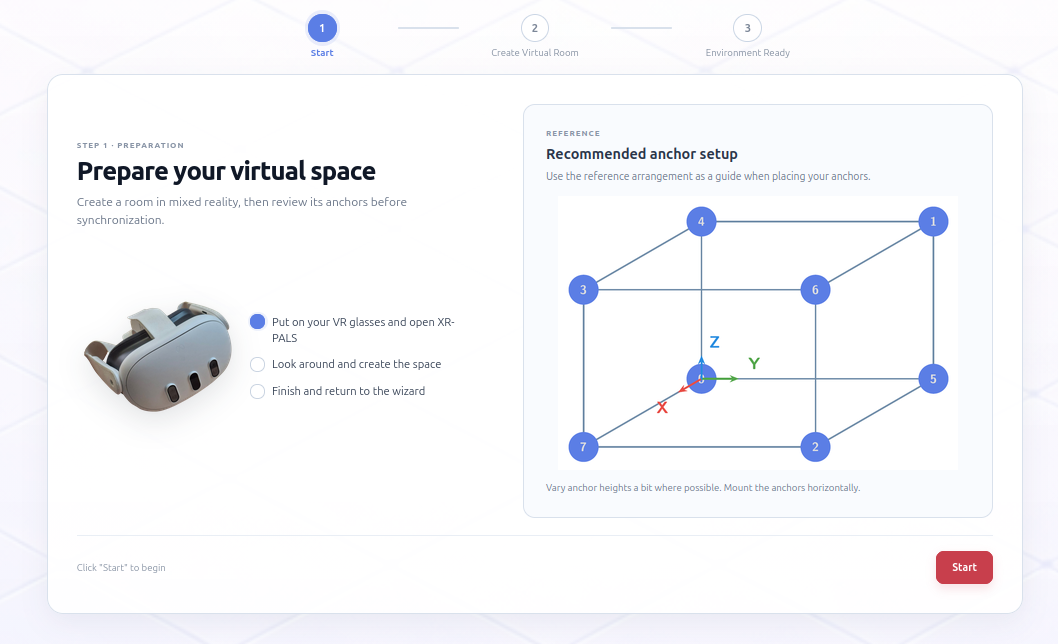
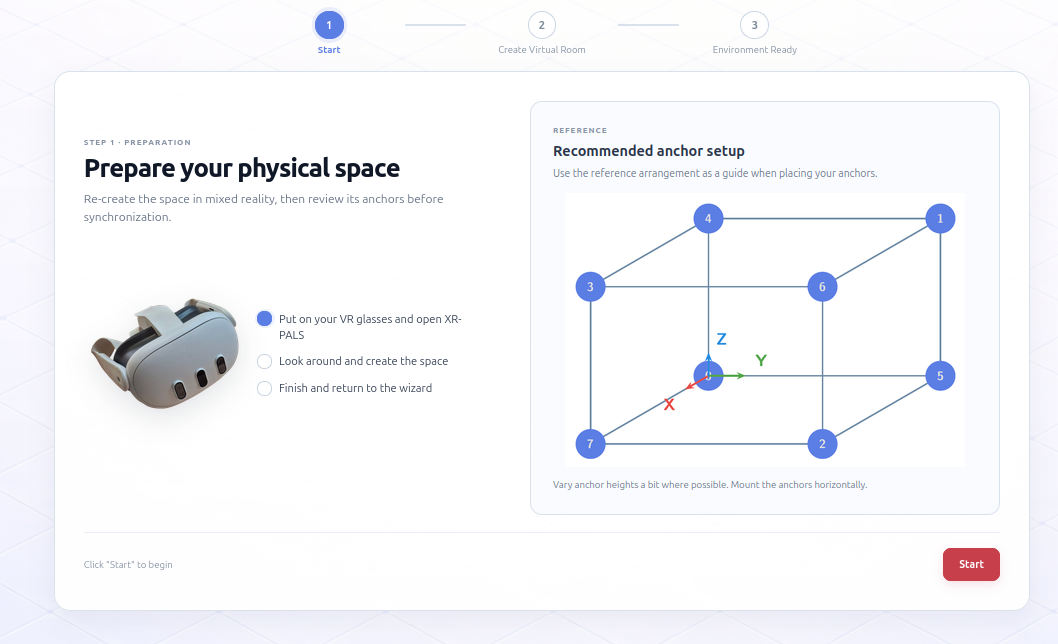
chore: user manual correction

diff --git a/frontend/start.html b/frontend/start.html
@@ -39,8 +39,8 @@
             <section class="start-copy">
                 <div class="wizard-step-header">
                     <p class="step-kicker">STEP 1 · PREPARATION</p>
-                    <h1 id="startTitle">Prepare your virtual space</h1>
-                    <p class="subtitle">Create a room in mixed reality, then review its anchors before synchronization.</p>
+                    <h1 id="startTitle">Prepare your physical space</h1>
+                    <p class="subtitle">Re-create the space in mixed reality, then review its anchors before synchronization.</p>
                 </div>
 
                 <div class="start-guidance">

diff --git a/README.md b/README.md
@@ -99,7 +99,7 @@ $ npm run dev
 Open the browser at:
 [`http://localhost:5173/`](http://localhost:5173/)
 
-### Synchronization and Crazyfly Tracking
+### Synchronization and Crazyflie Tracking
 
 > **Prerequisite:** Before starting cf.PyCtrl, install it as a Docker container by following the [cf.PyControl installation instructions](https://github.com/UniAgent-CyberPhysicalAssets/cps.asset.crazyflie/tree/main/controller/cf.PyControl#installation).
 
